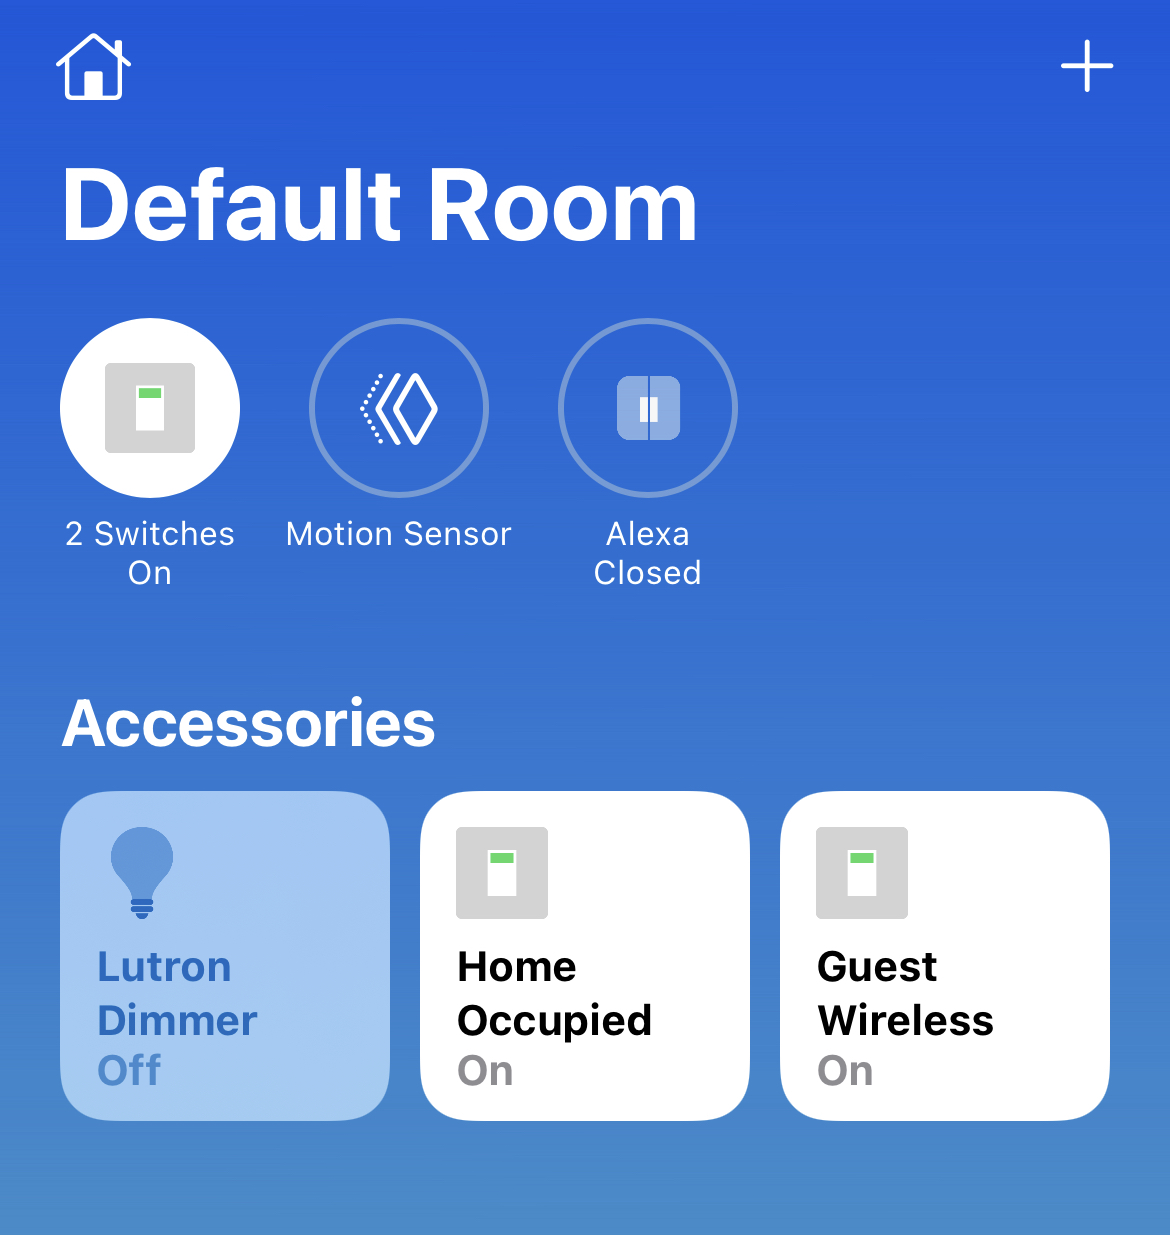
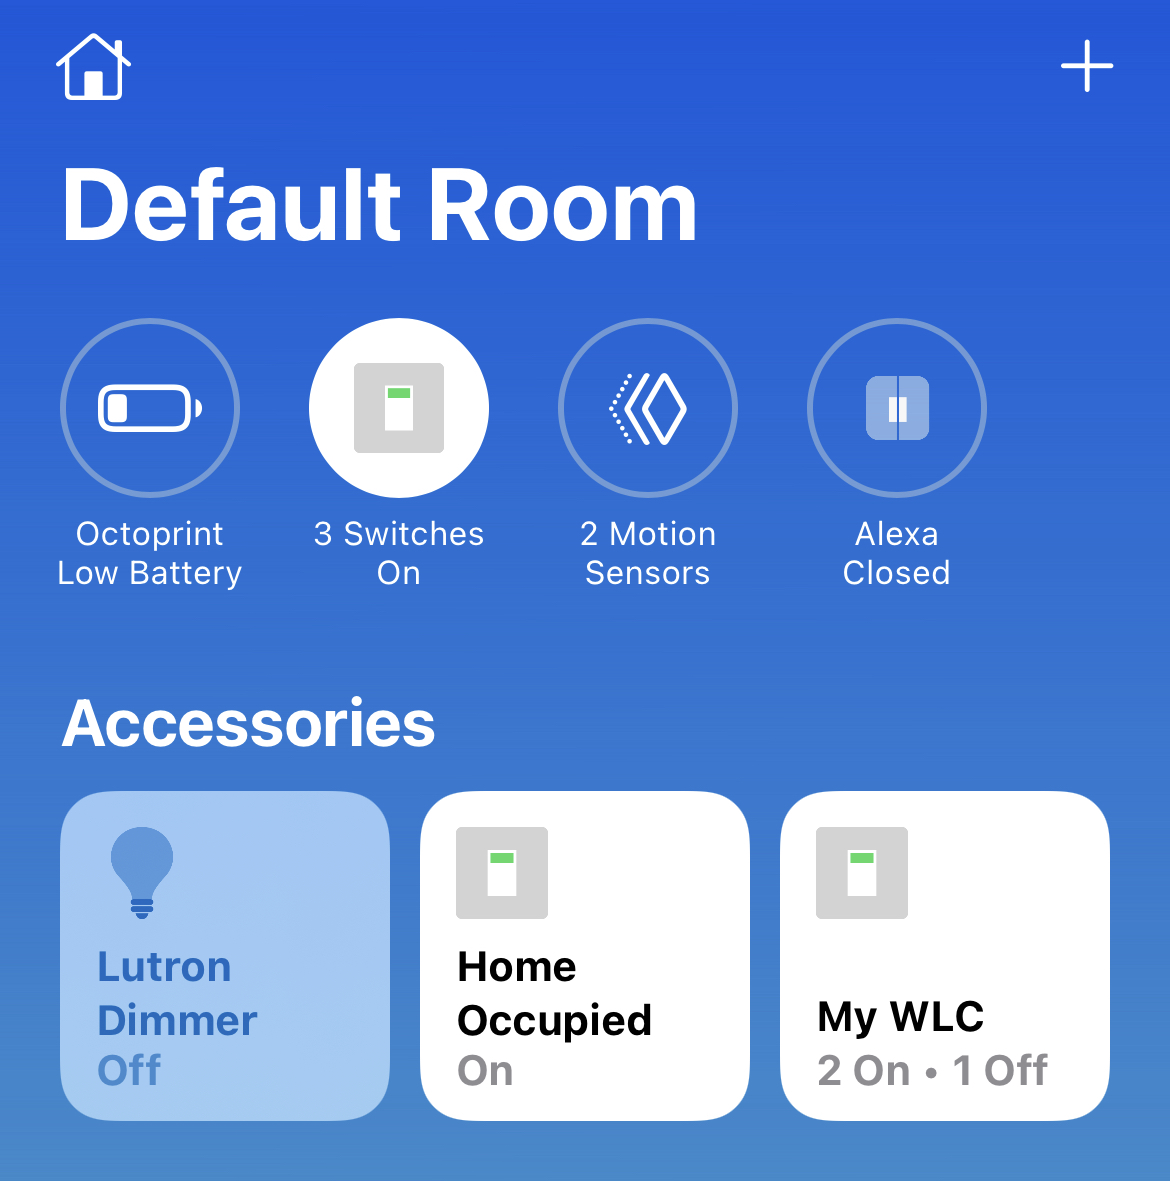
Updated README.md

diff --git a/README.md b/README.md
@@ -9,6 +9,7 @@
 The purpose of this code is to create a Homebridge plugin to allow a wireless administrator to enable or disable a WLAN through a Light Switch control in Apple’s homekit or through Siri.
 
 ![alt text](example.png "Dashboard Example Screenshot")
+![alt text](example2.png "WLC Example Screenshot")
 
 # Intended Audience
 
@@ -21,9 +22,10 @@ This code was originally designed for my personal use at home, to allow me to to
 # How This Code Works
 
 This NodeJS code will accomplish the following tasks:
-1. Creates a set of Light Switch accessories in Homebridge, to be shared with Apple homekit
-2. Exposes two functions to Homebridge – one to interrogate the WLAN status, the other to set the status
-3. Provides any error back to Homebridge for logging
+1. Creates a parent container accessory in Homebridge, to be shared with Apple homekit - one per WLC
+2. Creates a set of child Light Switch accessories in Homebridge, to be shared with Apple homekit - one per WLAN
+3. Exposes two functions to Homebridge – one to interrogate the WLAN status, the other to set the status
+4. Provides any error back to Homebridge for logging
 
 
 # Installation Steps
@@ -42,7 +44,7 @@ Then all subsequent plugin installations must be like this:
     sudo npm install -g --unsafe-perm homebridge-c9800
 
 # Configuration
-Example accessory config (needs to be added to the homebridge config.json):
+Example platform config (needs to be added to the homebridge config.json):
 ```
   "platforms": [
     {
@@ -77,7 +79,7 @@ Example accessory config (needs to be added to the homebridge config.json):
 Field           						| Description
 ----------------------------|------------
 **platform**   							| (required) Must always be "Cisco 9800".
-**name**										| (required) The name you want to use for the platform within Homebridge.
+**name**										| (required) The internal name you want to use for the platform within Homebridge.
 **timeout**									| (optional) The timeout duration in ms for the web API calls.
 **debug**										| (optional) Enables additional logging.
 **displayName**							| (required) The name you want to show for the WLC in homekit.
@@ -97,7 +99,9 @@ To make your WLC work with the plugin:
 
 # FAQ
 1. What is the purpose of each file?
-   - [index.js](index.js) - Contains the NodeJS Homebridge plugin
+   - [index.js](index.js) - Contains the NodeJS Homebridge plugin registration
+   - [c9800platform.js](c9800platform.js) - Contains the NodeJS Homebridge plugin code for the creating the WLC containers and instantiating the WLAN LightSwitches
+   - [c9800platformAccessory.js](c9800platformAccessory.js) - Contains the NodeJS Homebridge plugin code for the WLAN LightSwitches
    - [config.schema.json](config.schema.json) - Contains the schema to allow configuration of the plugin through the Homebridge UI
 2. Does this code use NETCONF, RESTCONF, or both?
    - This code leverages RESTCONF APIs and YANG data models only. NETCONF is not used.
